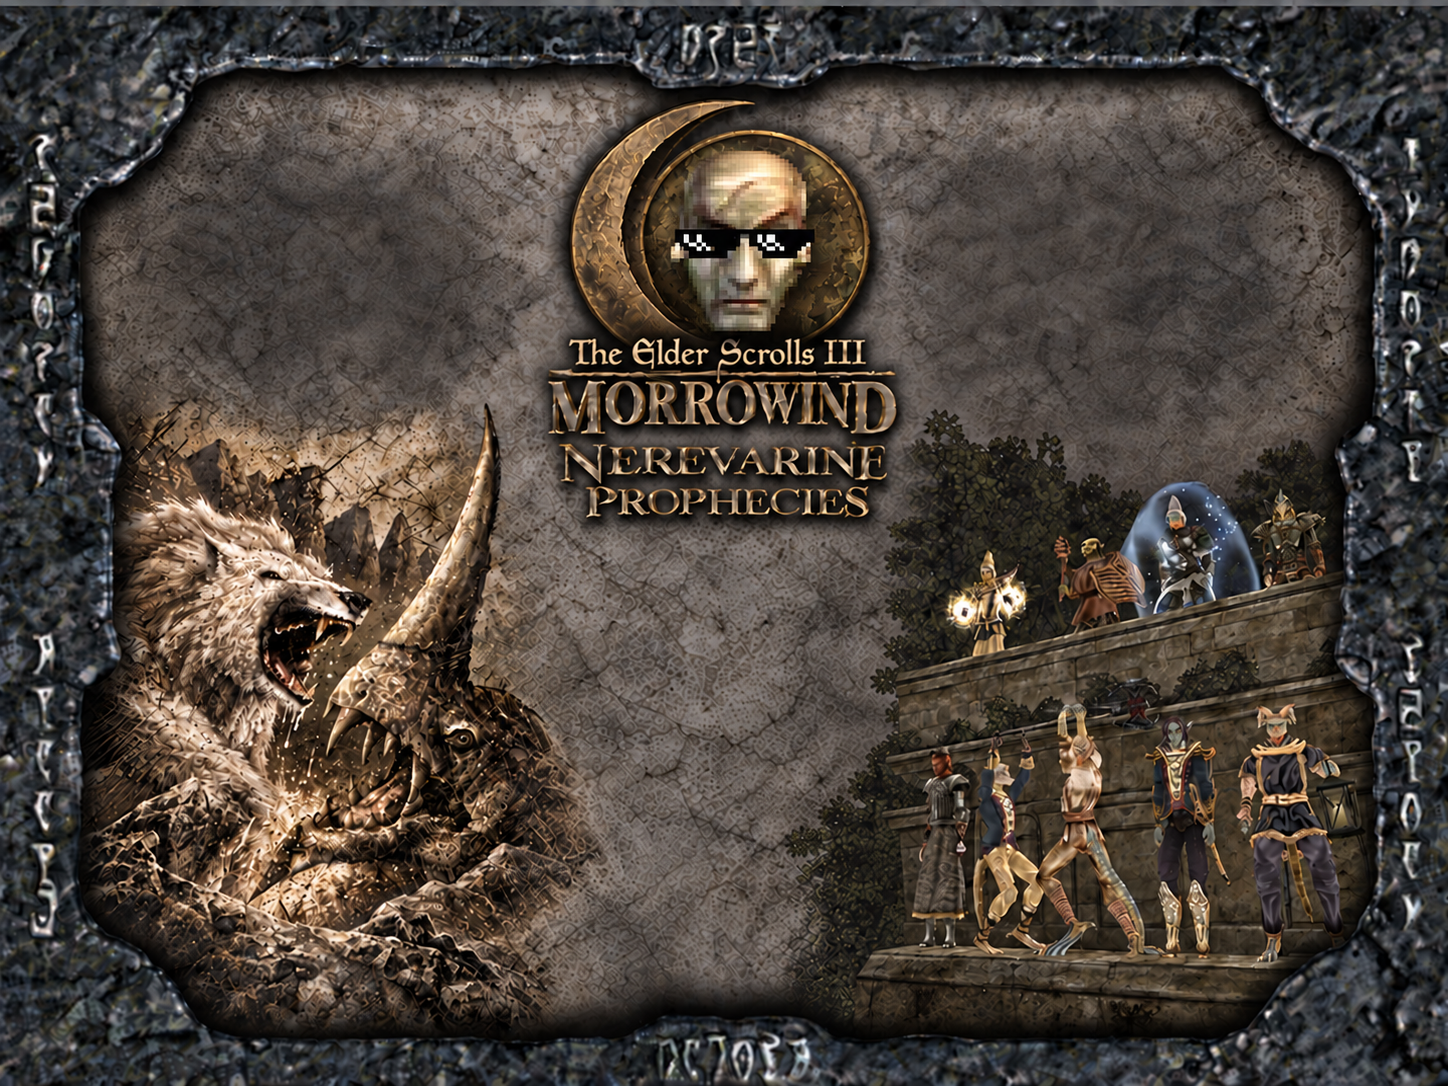
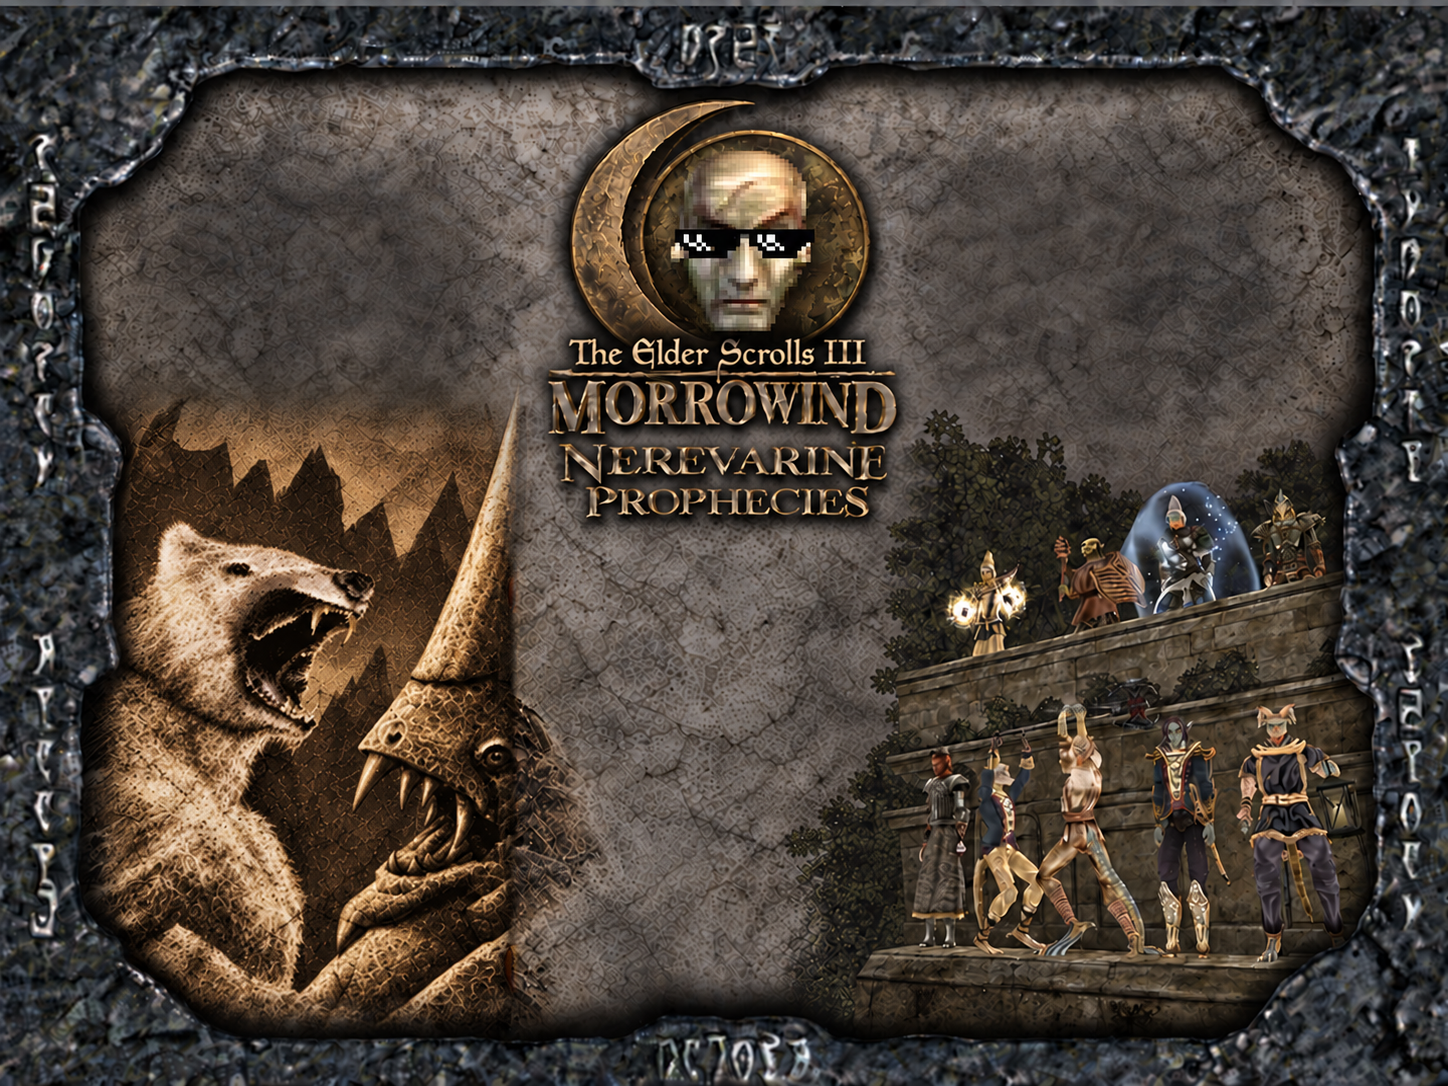
Bake approved creature artwork into launcher background and remove overlay layer

Changed region(s): [[0.0622, 0.3343, 0.3729, 0.942]]

diff --git a/scripts/check-chat-architecture.py b/scripts/check-chat-architecture.py
@@ -214,6 +214,22 @@ expect(
 )
 
 expect(
+    "Vintage creatures are baked into the single launcher background",
+    (lambda front, bootstrap:
+        front.count('LauncherGui.Add("Picture", "x0 y-4 w960 h720"') == 1
+        and "og-creatures-overlay.png" not in front
+        and "og-creatures-overlay.png" not in bootstrap
+        and not (ROOT / "assets" / "backgrounds" / "og-creatures-overlay.png").exists()
+        and (ROOT / "assets" / "backgrounds" / "launcher.png").is_file()
+        and front.index('LauncherGui.Add("Picture", "x0 y-4 w960 h720"')
+            < front.index('CreateHappyHourDust()')
+    )(
+        (ROOT / "src" / "ui" / "front-page.ahk").read_text(encoding="utf-8-sig"),
+        bootstrap,
+    ),
+)
+
+expect(
     "Happy Hour banner has no dismiss button or dismissal state",
     'GoldButton("×"' not in source
     and 'dismissedHappyHourBannerId' not in source
